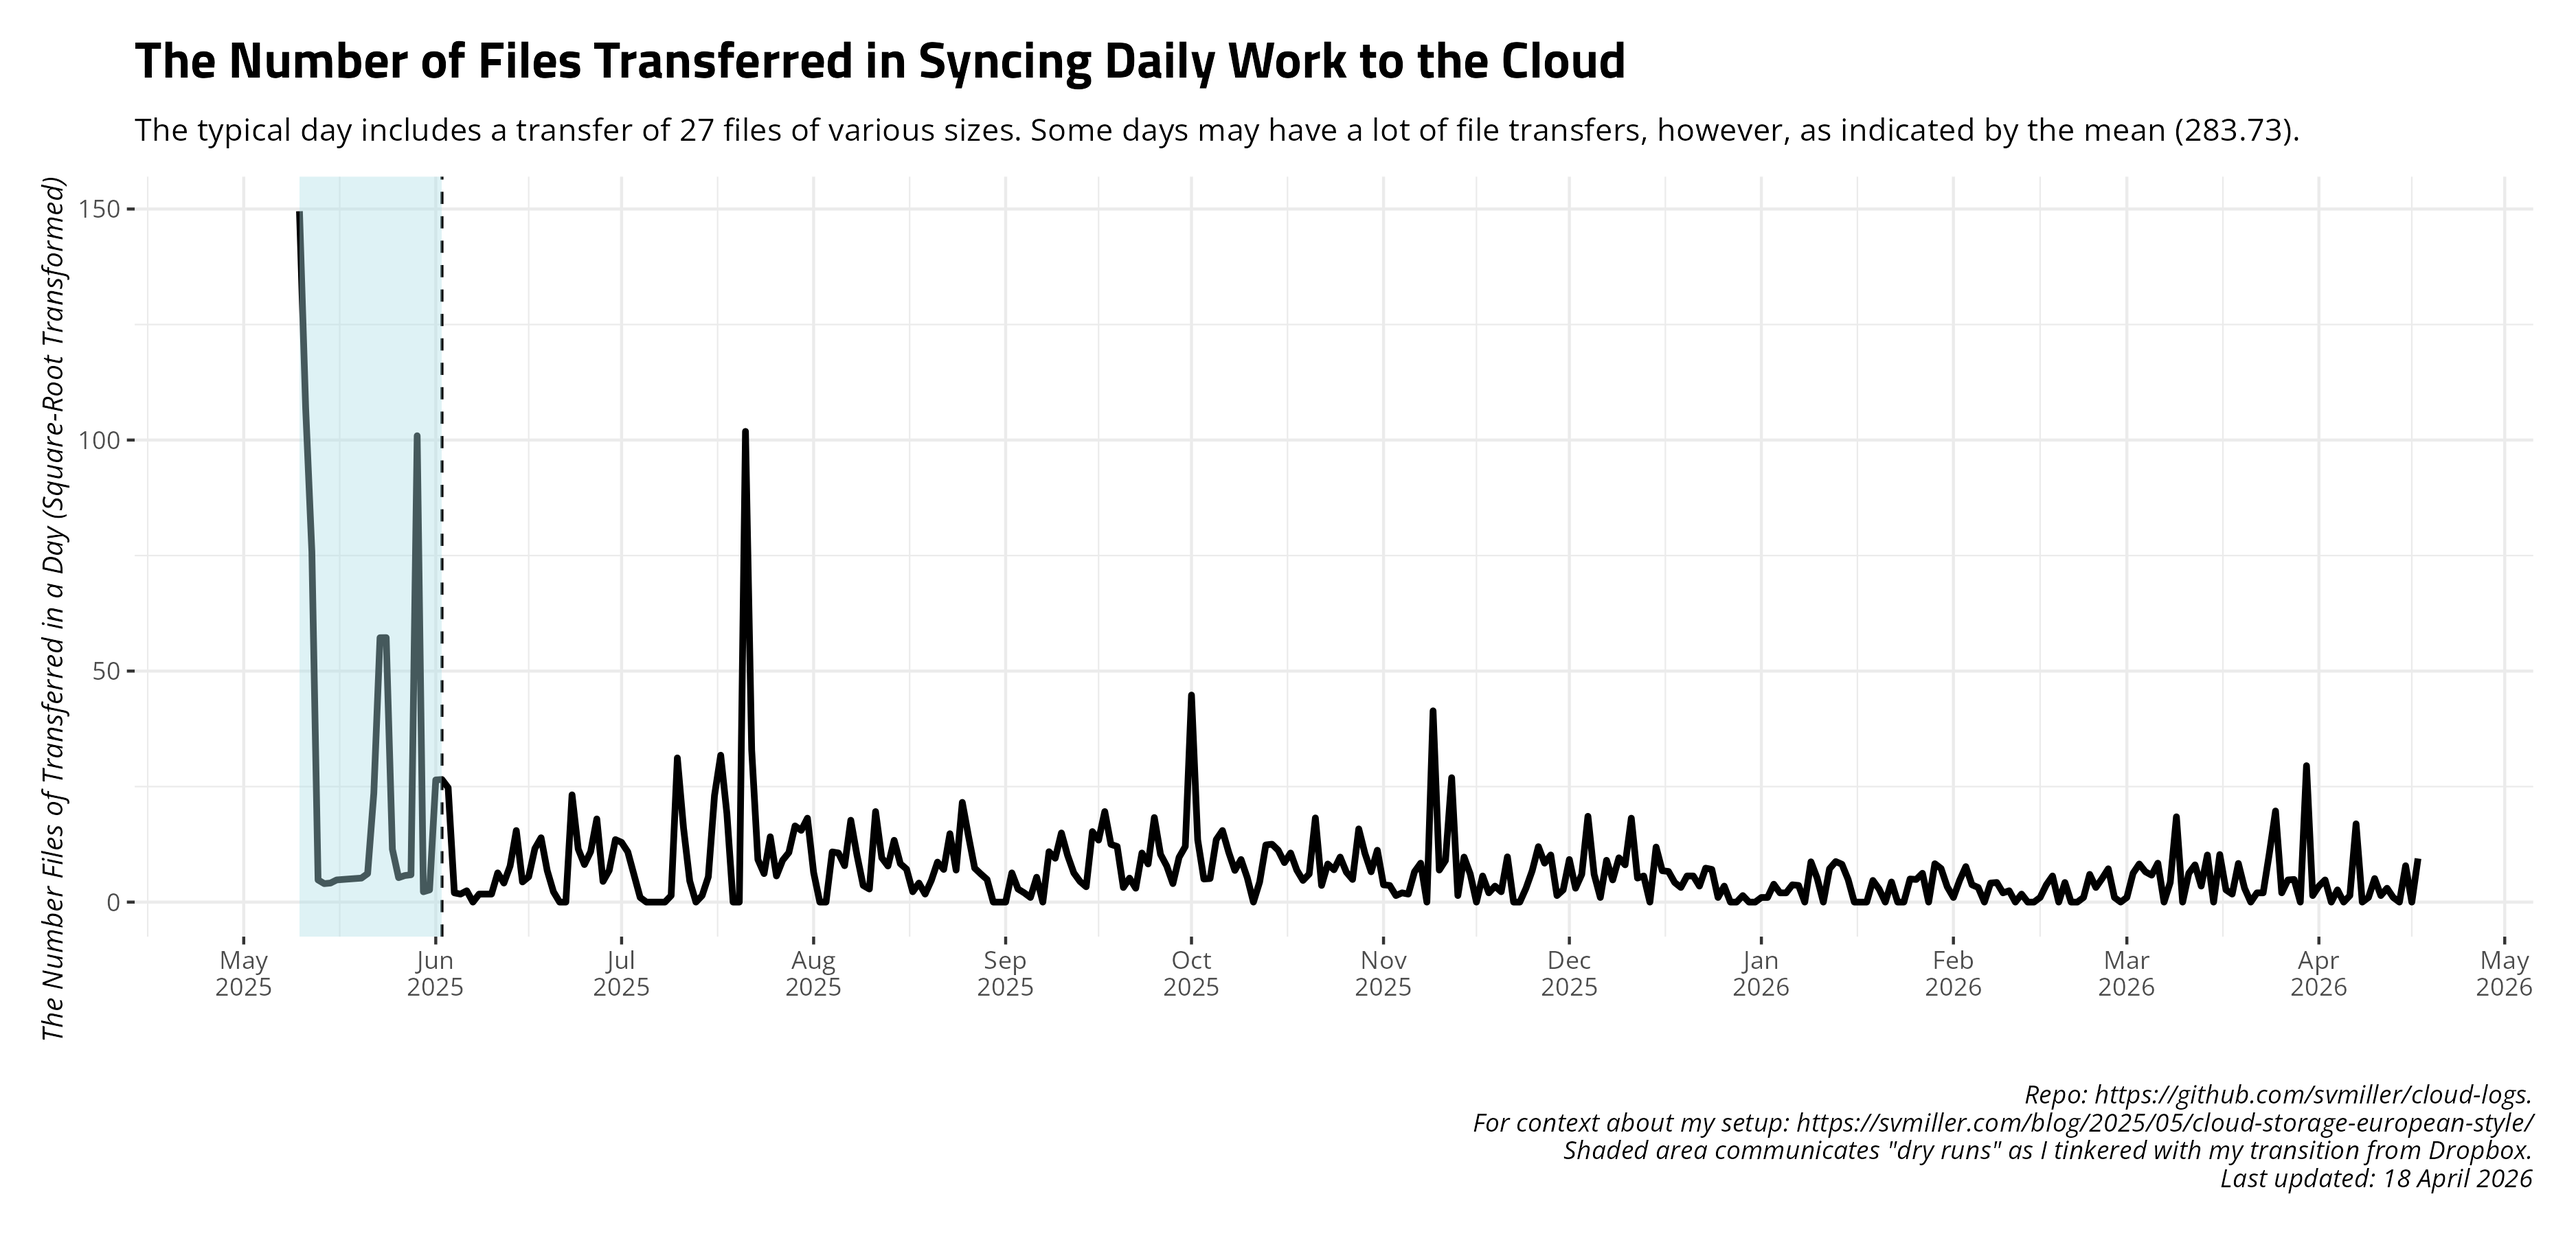
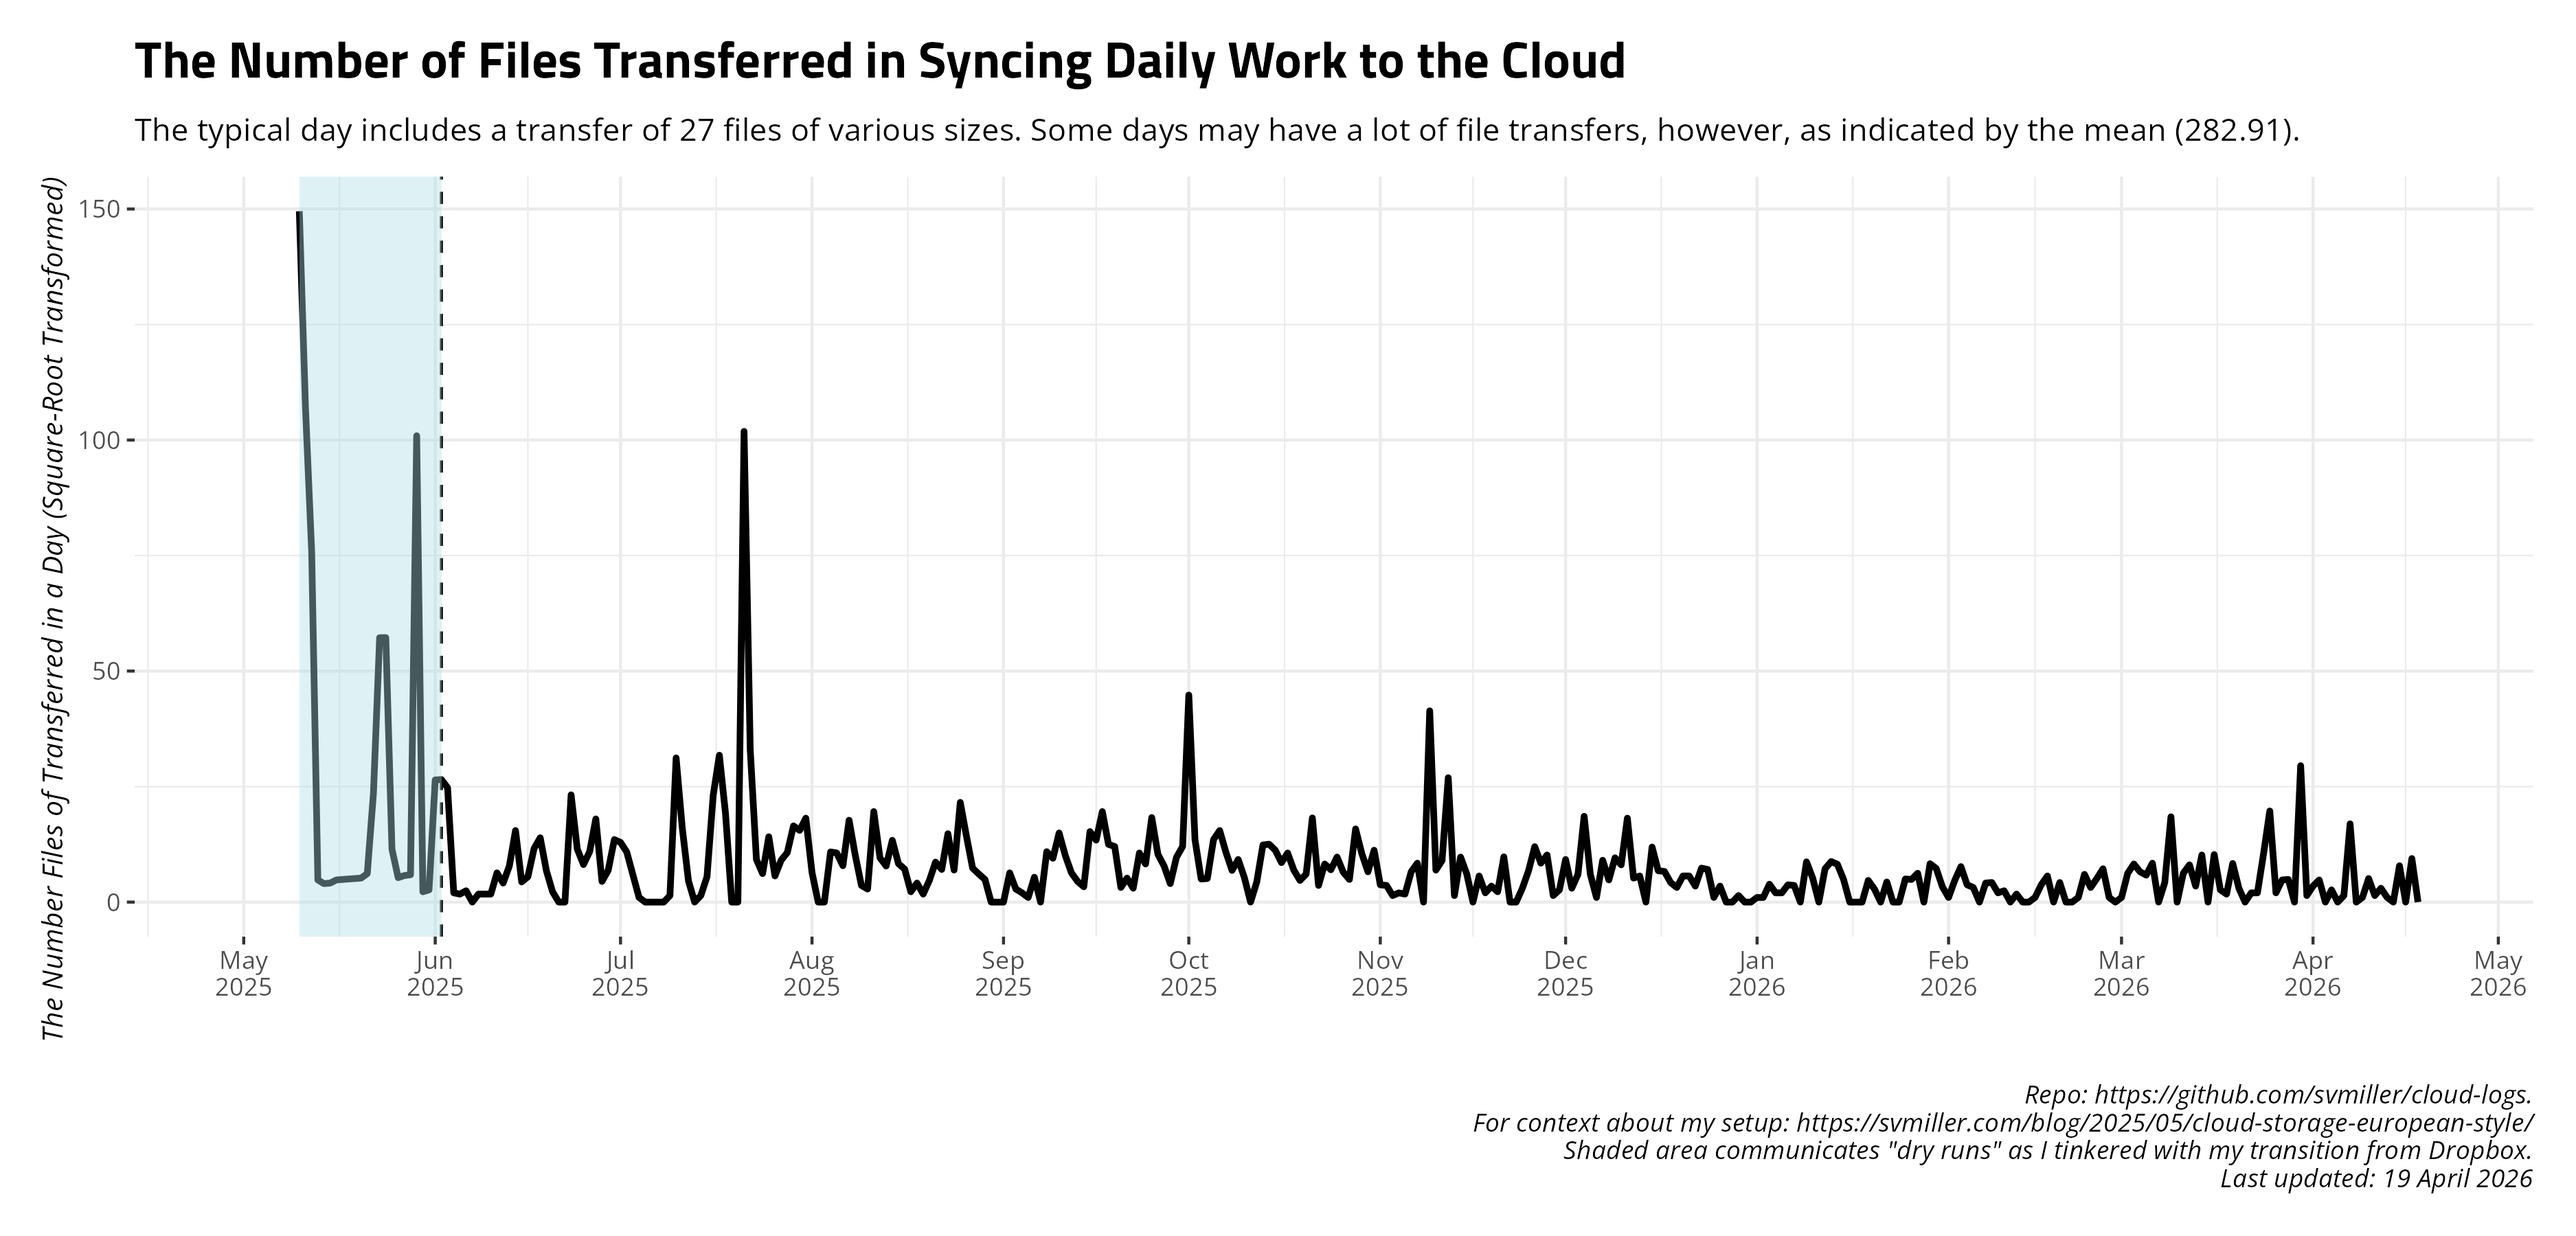
Date: 2026-04-19 09:00:27. Hi mom!

diff --git a/README.md b/README.md
@@ -27,17 +27,17 @@ and uploads to Github.
     #> # A tibble: 14 × 4
     #>    date       ftransfer stransfer   elapsed
     #>    <date>         <dbl> <chr>       <chr>  
-    #>  1 2026-04-04         7 220.335 MiB 5m13.2s
-    #>  2 2026-04-05         0 <NA>        5m9.7s 
-    #>  3 2026-04-06         2 37.269 KiB  5m12.6s
-    #>  4 2026-04-07       287 <NA>        5m11.3s
-    #>  5 2026-04-08         0 <NA>        9m36.6s
-    #>  6 2026-04-09         1 882.068 KiB 5m10.4s
-    #>  7 2026-04-10        26 11.506 GiB  7m1.3s 
-    #>  8 2026-04-11         2 6.212 KiB   5m10.0s
-    #>  9 2026-04-12         9 1.208 MiB   5m14.0s
-    #> 10 2026-04-13         1 7.343 MiB   5m11.9s
-    #> 11 2026-04-14         0 <NA>        5m11.0s
-    #> 12 2026-04-15        62 19.695 MiB  4m46.0s
-    #> 13 2026-04-16         0 <NA>        5m9.8s 
-    #> 14 2026-04-17        89 369.474 KiB 5m33.8s
+    #>  1 2026-04-05         0 <NA>        5m9.7s 
+    #>  2 2026-04-06         2 37.269 KiB  5m12.6s
+    #>  3 2026-04-07       287 <NA>        5m11.3s
+    #>  4 2026-04-08         0 <NA>        9m36.6s
+    #>  5 2026-04-09         1 882.068 KiB 5m10.4s
+    #>  6 2026-04-10        26 11.506 GiB  7m1.3s 
+    #>  7 2026-04-11         2 6.212 KiB   5m10.0s
+    #>  8 2026-04-12         9 1.208 MiB   5m14.0s
+    #>  9 2026-04-13         1 7.343 MiB   5m11.9s
+    #> 10 2026-04-14         0 <NA>        5m11.0s
+    #> 11 2026-04-15        62 19.695 MiB  4m46.0s
+    #> 12 2026-04-16         0 <NA>        5m9.8s 
+    #> 13 2026-04-17        89 369.474 KiB 5m33.8s
+    #> 14 2026-04-18         0 <NA>        5m13.0s
